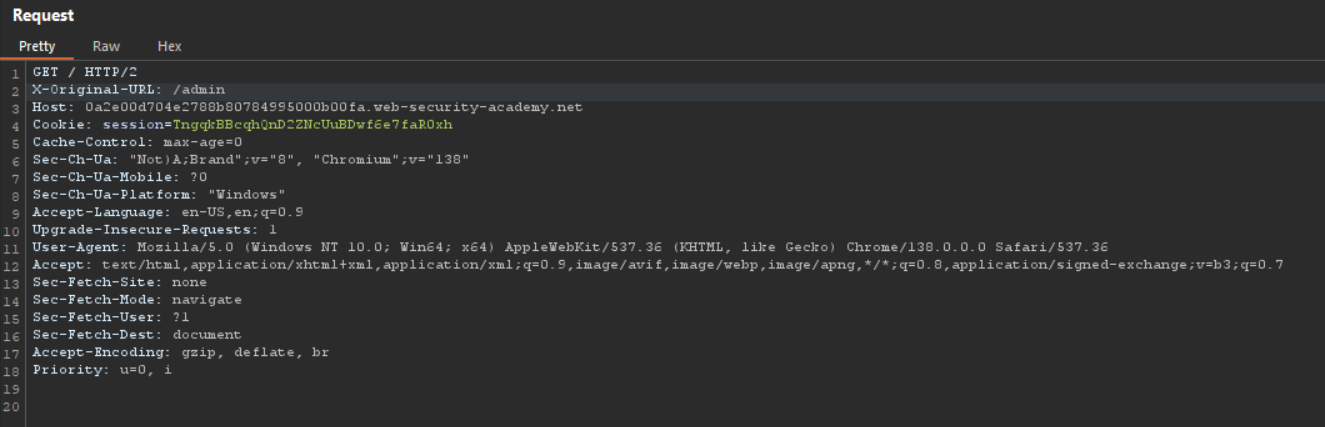
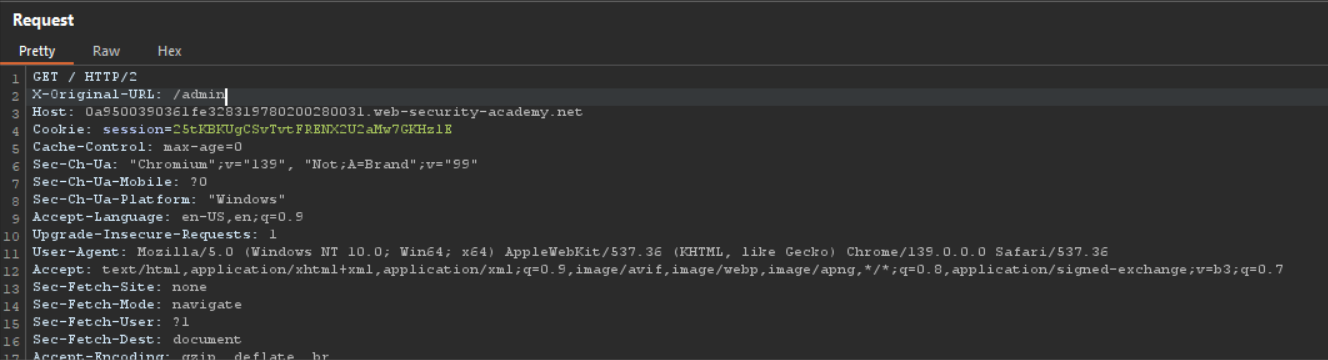
Fix: AC lab 3 missing step

Changed region(s): [[0.0, 0.0, 0.9592, 1.0]]

diff --git a/z3/z3 Vasilije/d3.md b/z3/z3 Vasilije/d3.md
@@ -77,7 +77,13 @@ Administratorskom panelu se sada može pristupiti odavanjem X-Original-URL heade
 
 ![alt text](AC-lab3-4.png)
 
-Klikom na Delete dugme pored carlosovog imena zadatak je rešen.
+Međutim, klikom na Delete dugme pored carlosovog imena zadatak nije rešen, jer je i ta putanja zabranjena.
+
+![alt text](AC-lab3-5.png)
+
+Još jednim presretanjem tog zahteva i dodavanjem X-Original-URL headera zadatak je rešen. Parametar username ostaje u originalnoj putanji zahteva, kao na sledećoj slici.
+
+![alt text](AC-lab3-6.png)
 
 ## Lab 4 - Method-based access control can be circumvented (Practitioner)
 
